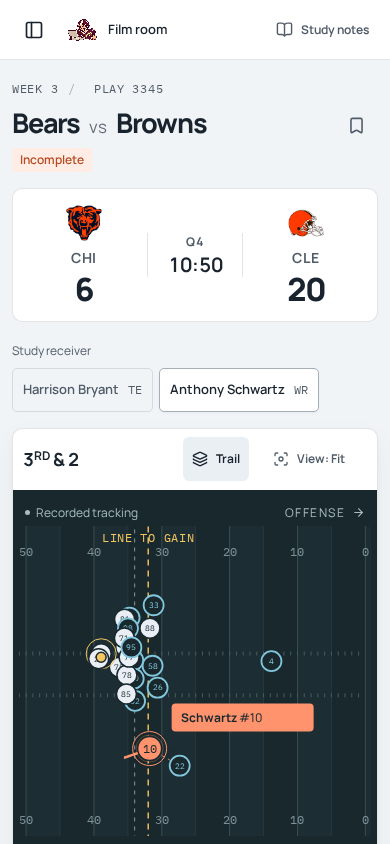
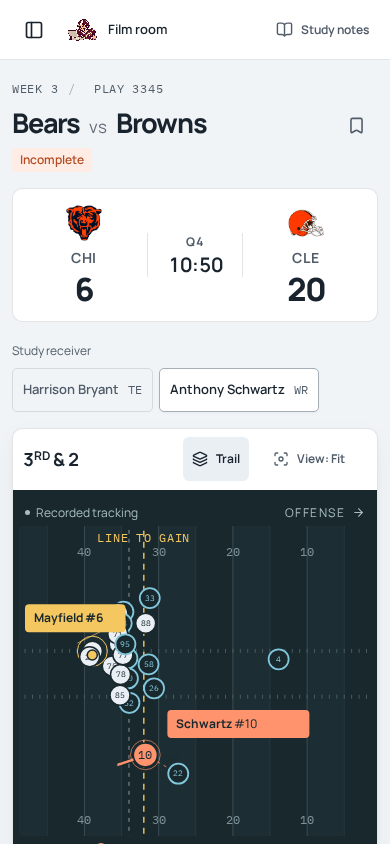
Label the thrower and clarify receiver distance ring with closer fit view

diff --git a/web/src/components/Field.tsx b/web/src/components/Field.tsx
@@ -60,6 +60,15 @@ export default function Field({
       .join(" ");
   const topLeft = xy({ x: 0, y: 160 / 3 });
   const receiver = frame.players.find((p) => p.id === replay.route.nflId)!;
+  const thrower = frame.players.find((p) => p.id === replay.thrower.id)!;
+  const throwerXY = xy(thrower);
+  const throwerText = `${replay.thrower.name.split(" ").at(-1)} #${thrower.label}`;
+  const throwerLabelWidth = Math.max(100, throwerText.length * 7.5 + 18);
+  const throwerLabelX = Math.max(
+    6,
+    Math.min(W - throwerLabelWidth - 6, throwerXY.x - throwerLabelWidth - 22),
+  );
+  const throwerLabelY = Math.max(40, Math.min(H - 18, throwerXY.y - 32));
   const nearest = frame.players.find((p) => p.id === frame.nearest);
   const routePoints = frames
     .filter((f) => f.t <= Math.min(time, frames.at(-1)!.t))
@@ -221,8 +230,11 @@ export default function Field({
           className="player player--receiver"
           transform={`translate(${receiverXY.x},${receiverXY.y})`}
         >
-          <circle className="receiver-radius" r={2 * scale} />
-          <circle className="receiver-ring" r="17" />
+          <circle className="receiver-radius" r={2 * scale}>
+            <title>
+              2-yard radius: separation screening threshold, not a catch radius
+            </title>
+          </circle>
           <circle r="12" />
           <text y=".35em">{receiver.label}</text>
         </g>
@@ -246,6 +258,27 @@ export default function Field({
               );
             },
           )}
+        <g className="thrower-label">
+          <title>
+            {replay.thrower.name} · Thrower #{thrower.label}
+          </title>
+          <line
+            x1={throwerLabelX + throwerLabelWidth}
+            y1={throwerLabelY}
+            x2={throwerXY.x - 15}
+            y2={throwerXY.y - 8}
+          />
+          <rect
+            x={throwerLabelX}
+            y={throwerLabelY - 15}
+            width={throwerLabelWidth}
+            height="28"
+            rx="4"
+          />
+          <text x={throwerLabelX + 9} y={throwerLabelY + 3}>
+            {throwerText}
+          </text>
+        </g>
         {!projection && (
           <g
             className="receiver-label"

diff --git a/web/src/components/Workspace.tsx b/web/src/components/Workspace.tsx
@@ -238,6 +238,9 @@ export default function Workspace({
                   Receiver
                 </span>
                 <span>
+                  <i className="legend-radius" />2 yd radius
+                </span>
+                <span>
                   <i className="legend-offense" />
                   Offense
                 </span>
@@ -436,6 +439,15 @@ export default function Workspace({
               selected receiver; the yellow dashed line marks the line to gain
               for a first down. The ball is gold and the thrower has a gold
               ring.
+            </p>
+          </section>
+          <section>
+            <h3>Receiver and distance ring</h3>
+            <p>
+              The filled orange marker identifies the selected receiver. The
+              thin orange circle marks a 2-yard radius around that receiver,
+              matching the distance threshold used to screen review moments. It
+              is not a catch radius or a guarantee that the receiver is open.
             </p>
           </section>
           <section>

diff --git a/web/src/styles.css b/web/src/styles.css
@@ -986,16 +986,10 @@ summary {
 .player--receiver > circle {
   fill: var(--receiver);
 }
-.player--receiver .receiver-ring {
+.player--receiver .receiver-radius {
   fill: none;
   stroke: var(--receiver);
-  stroke-width: 1;
-}
-.player--receiver .receiver-radius {
-  fill: var(--receiver);
-  fill-opacity: 0.08;
-  stroke: var(--receiver);
-  stroke-opacity: 0.25;
+  stroke-opacity: 0.65;
   stroke-width: 1;
 }
 .player--receiver text {
@@ -1053,6 +1047,12 @@ summary {
 }
 .field-legend .legend-receiver {
   background: var(--receiver);
+}
+.field-legend .legend-radius {
+  width: 12px;
+  height: 12px;
+  background: transparent;
+  border: 1px solid var(--receiver);
 }
 .field-legend .legend-defense {
   background: transparent;
@@ -2220,4 +2220,18 @@ kbd {
   .camera-toggle {
     min-width: 116px;
   }
+}
+
+.thrower-label rect {
+  fill: var(--ball);
+}
+.thrower-label text {
+  fill: var(--pitch);
+  font-size: 12px;
+  font-weight: 700;
+}
+.thrower-label line {
+  stroke: var(--ball);
+  stroke-width: 1;
+  opacity: 0.7;
 }

diff --git a/web/src/lib/replay.ts b/web/src/lib/replay.ts
@@ -48,7 +48,8 @@ export function fieldBounds(replay: Replay, full: boolean, includeProjection = f
   const centerY = (Math.min(...points.map(p => p.y)) + Math.max(...points.map(p => p.y))) / 2;
   points.push({x: replay.line_of_scrimmage, y: centerY}, {x: replay.situation.line_to_gain, y: centerY});
   if (full) points.push({x: 0, y: 0}, {x: 120, y: 160 / 3});
-  const x0 = Math.min(...points.map(p => p.x)) - 5, x1 = Math.max(...points.map(p => p.x)) + 5;
-  const y0 = Math.min(...points.map(p => p.y)) - 4, y1 = Math.max(...points.map(p => p.y)) + 4;
+  const padX = full ? 5 : 3, padY = full ? 4 : 3;
+  const x0 = Math.min(...points.map(p => p.x)) - padX, x1 = Math.max(...points.map(p => p.x)) + padX;
+  const y0 = Math.min(...points.map(p => p.y)) - padY, y1 = Math.max(...points.map(p => p.y)) + padY;
   return {x0, x1, y0, y1};
 }

diff --git a/README.md b/README.md
@@ -36,6 +36,8 @@ The [public site](https://nflbuddy.nix.zone/) reflects the last deployed release
 
 The selected receiver may not be the pass target. Spacing alone does not establish a safe throw or a missed opportunity.
 
+The filled orange marker identifies the selected receiver. Its thin **2 yd radius** ring shows the separation-screening distance; it is not a catch radius or a guarantee of an open pass. **Replay guide** explains the field symbols.
+
 ## Frontend
 
 The app uses [React](https://react.dev/) with TypeScript and [Vite](https://vite.dev/guide/). [Radix](https://www.radix-ui.com/primitives/docs/components/dialog) provides dialogs and tabs; [Lucide](https://lucide.dev/guide/react/) supplies icons. Components, SVG field rendering, and playback state live in `web/src/`. Styles use semantic OKLCH tokens, locally hosted Manrope and IBM Plex Mono, and responsive layouts. The original 8-bit football-and-computer mascot appears in the sidebar, mobile header, and browser tab.
@@ -79,7 +81,7 @@ The all-downs spacing-history study has a different question and cohort: 3,598 /
 
 | Capability | What you can do |
 | --- | --- |
-| **Synchronized replay** | Follow all 22 players, with a gold ring around the thrower and an orange selected receiver |
+| **Synchronized replay** | Follow all 22 players, with a gold ring and name label for the thrower and an orange selected receiver |
 | **Game situation** | Read the dedicated team scoreboard and quarter/clock, plus down-and-distance and the yellow **LINE TO GAIN** marking the distance needed for a first down |
 | **Recorded outcome** | See incomplete, completed short or intercepted, independently of the pre-throw animation |
 | **Playback controls** | Play, pause and scrub through the last recorded post-release sample; optionally enable the labeled projection on the same timeline; use At the throw to return to release |
